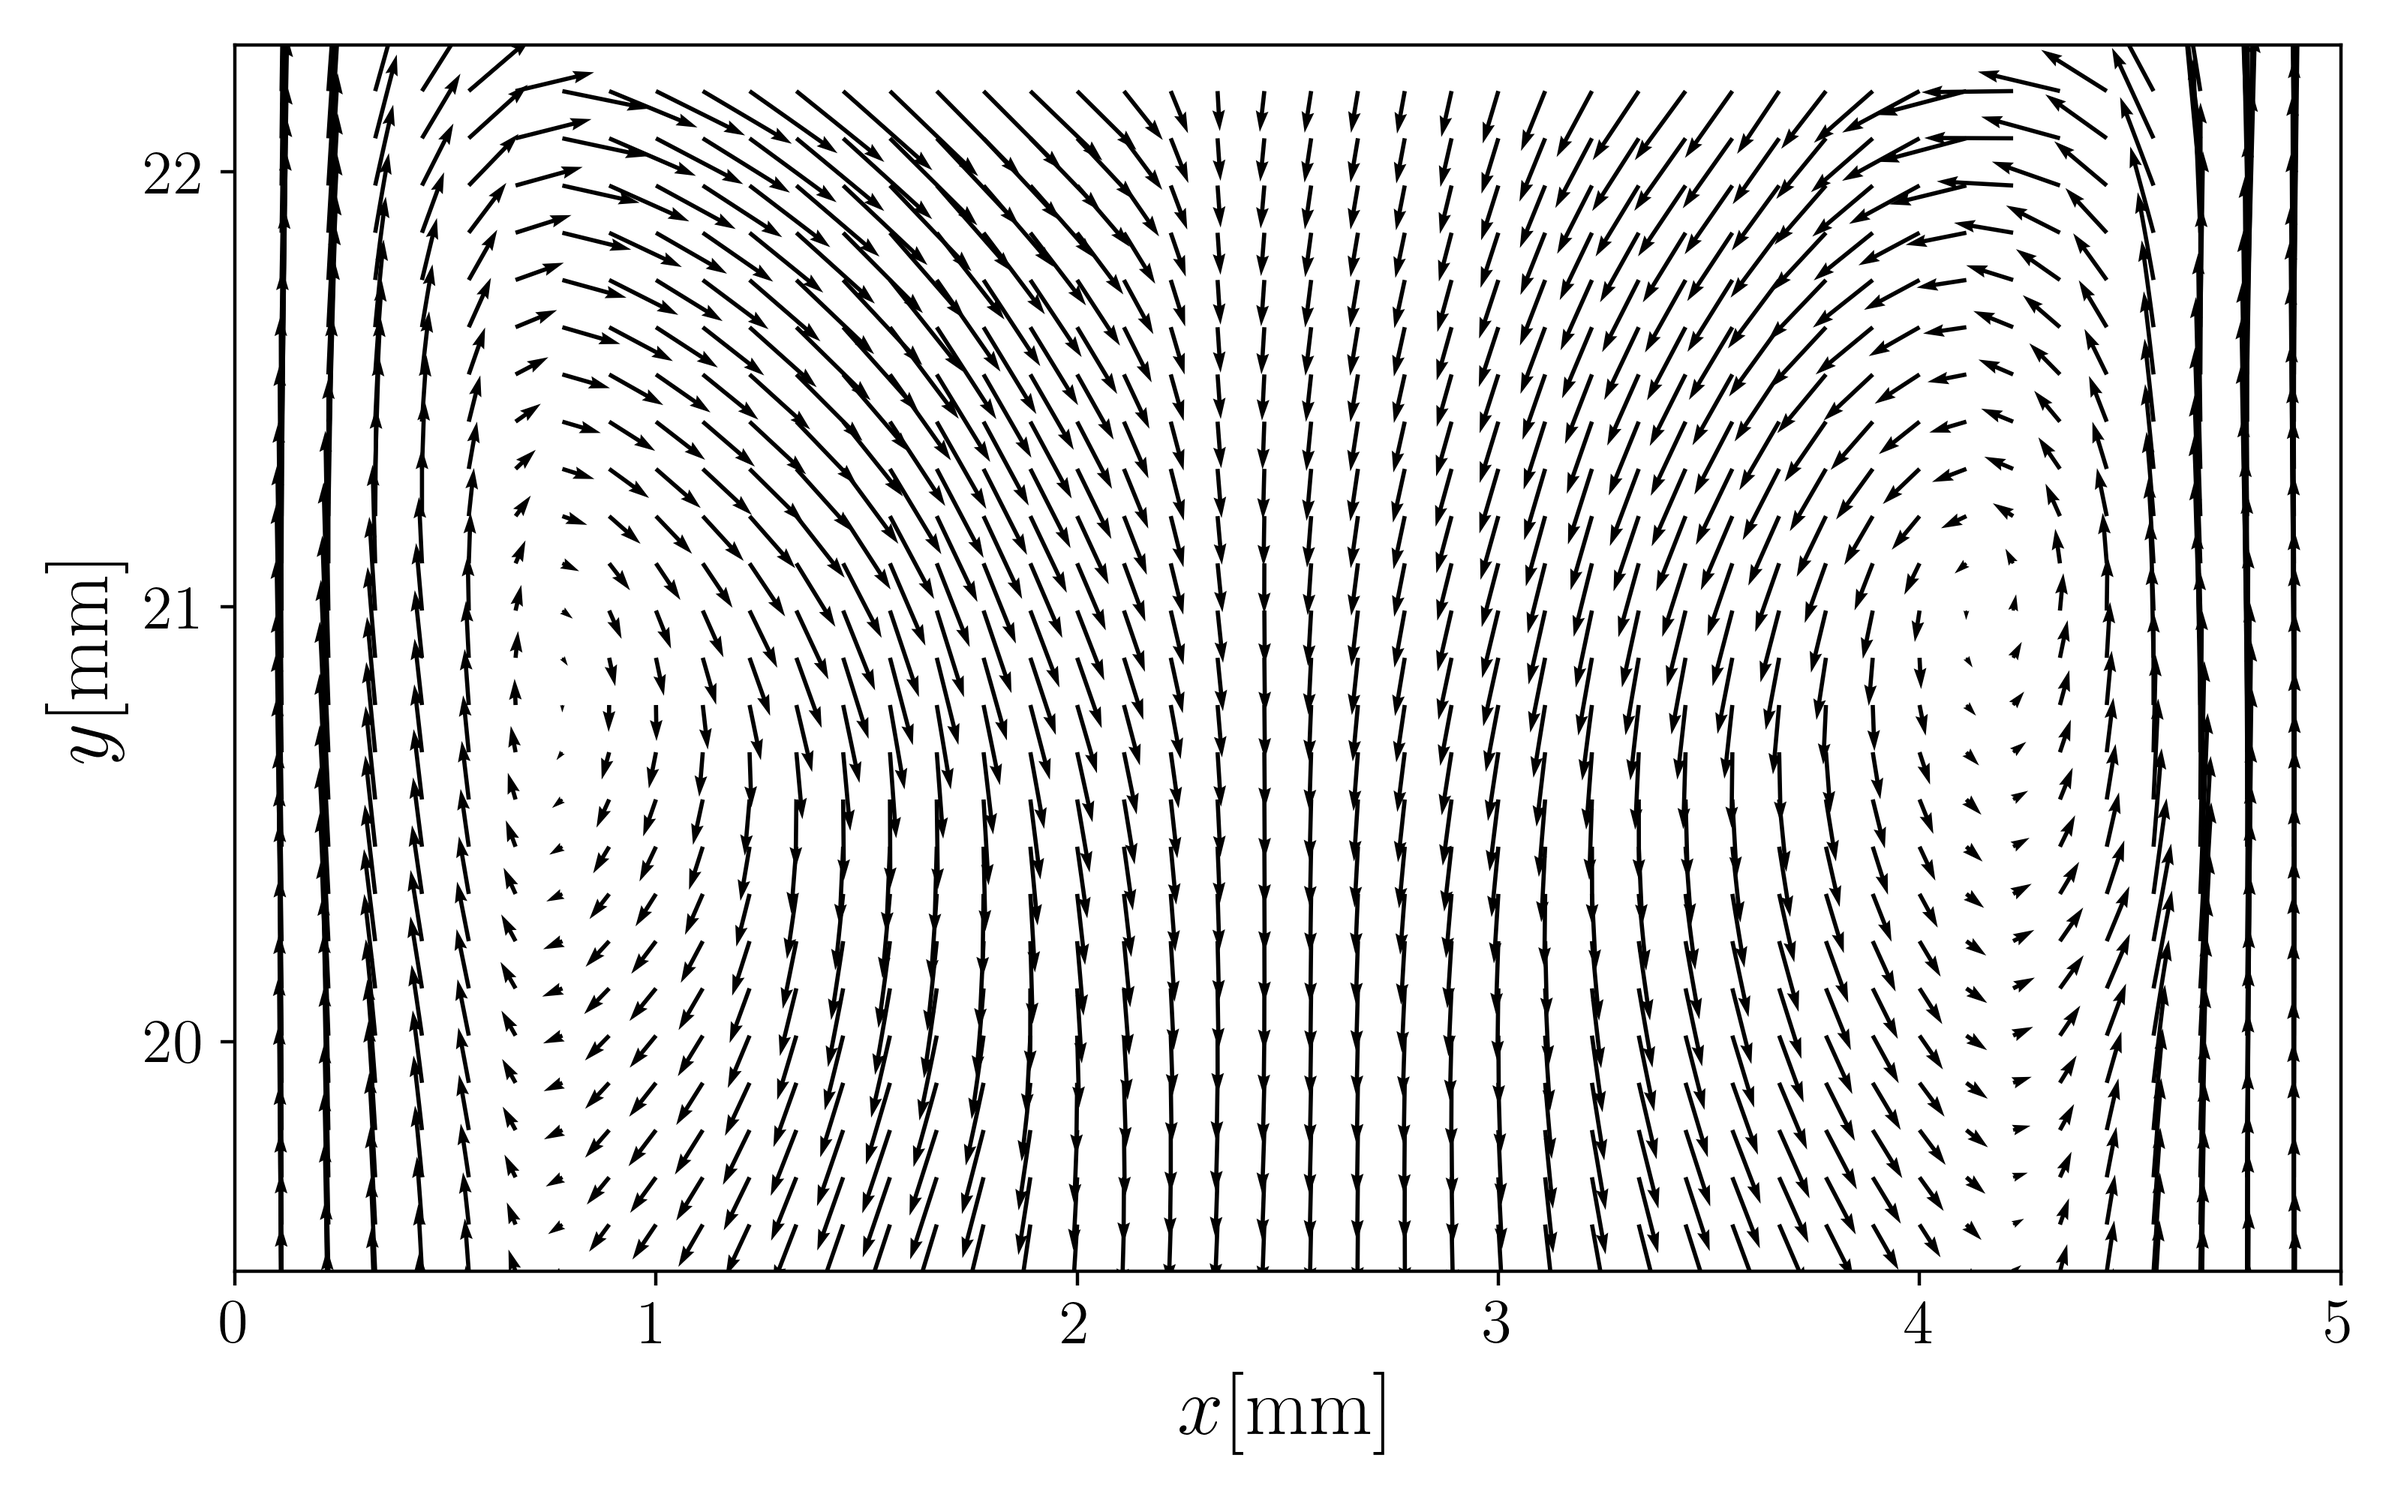
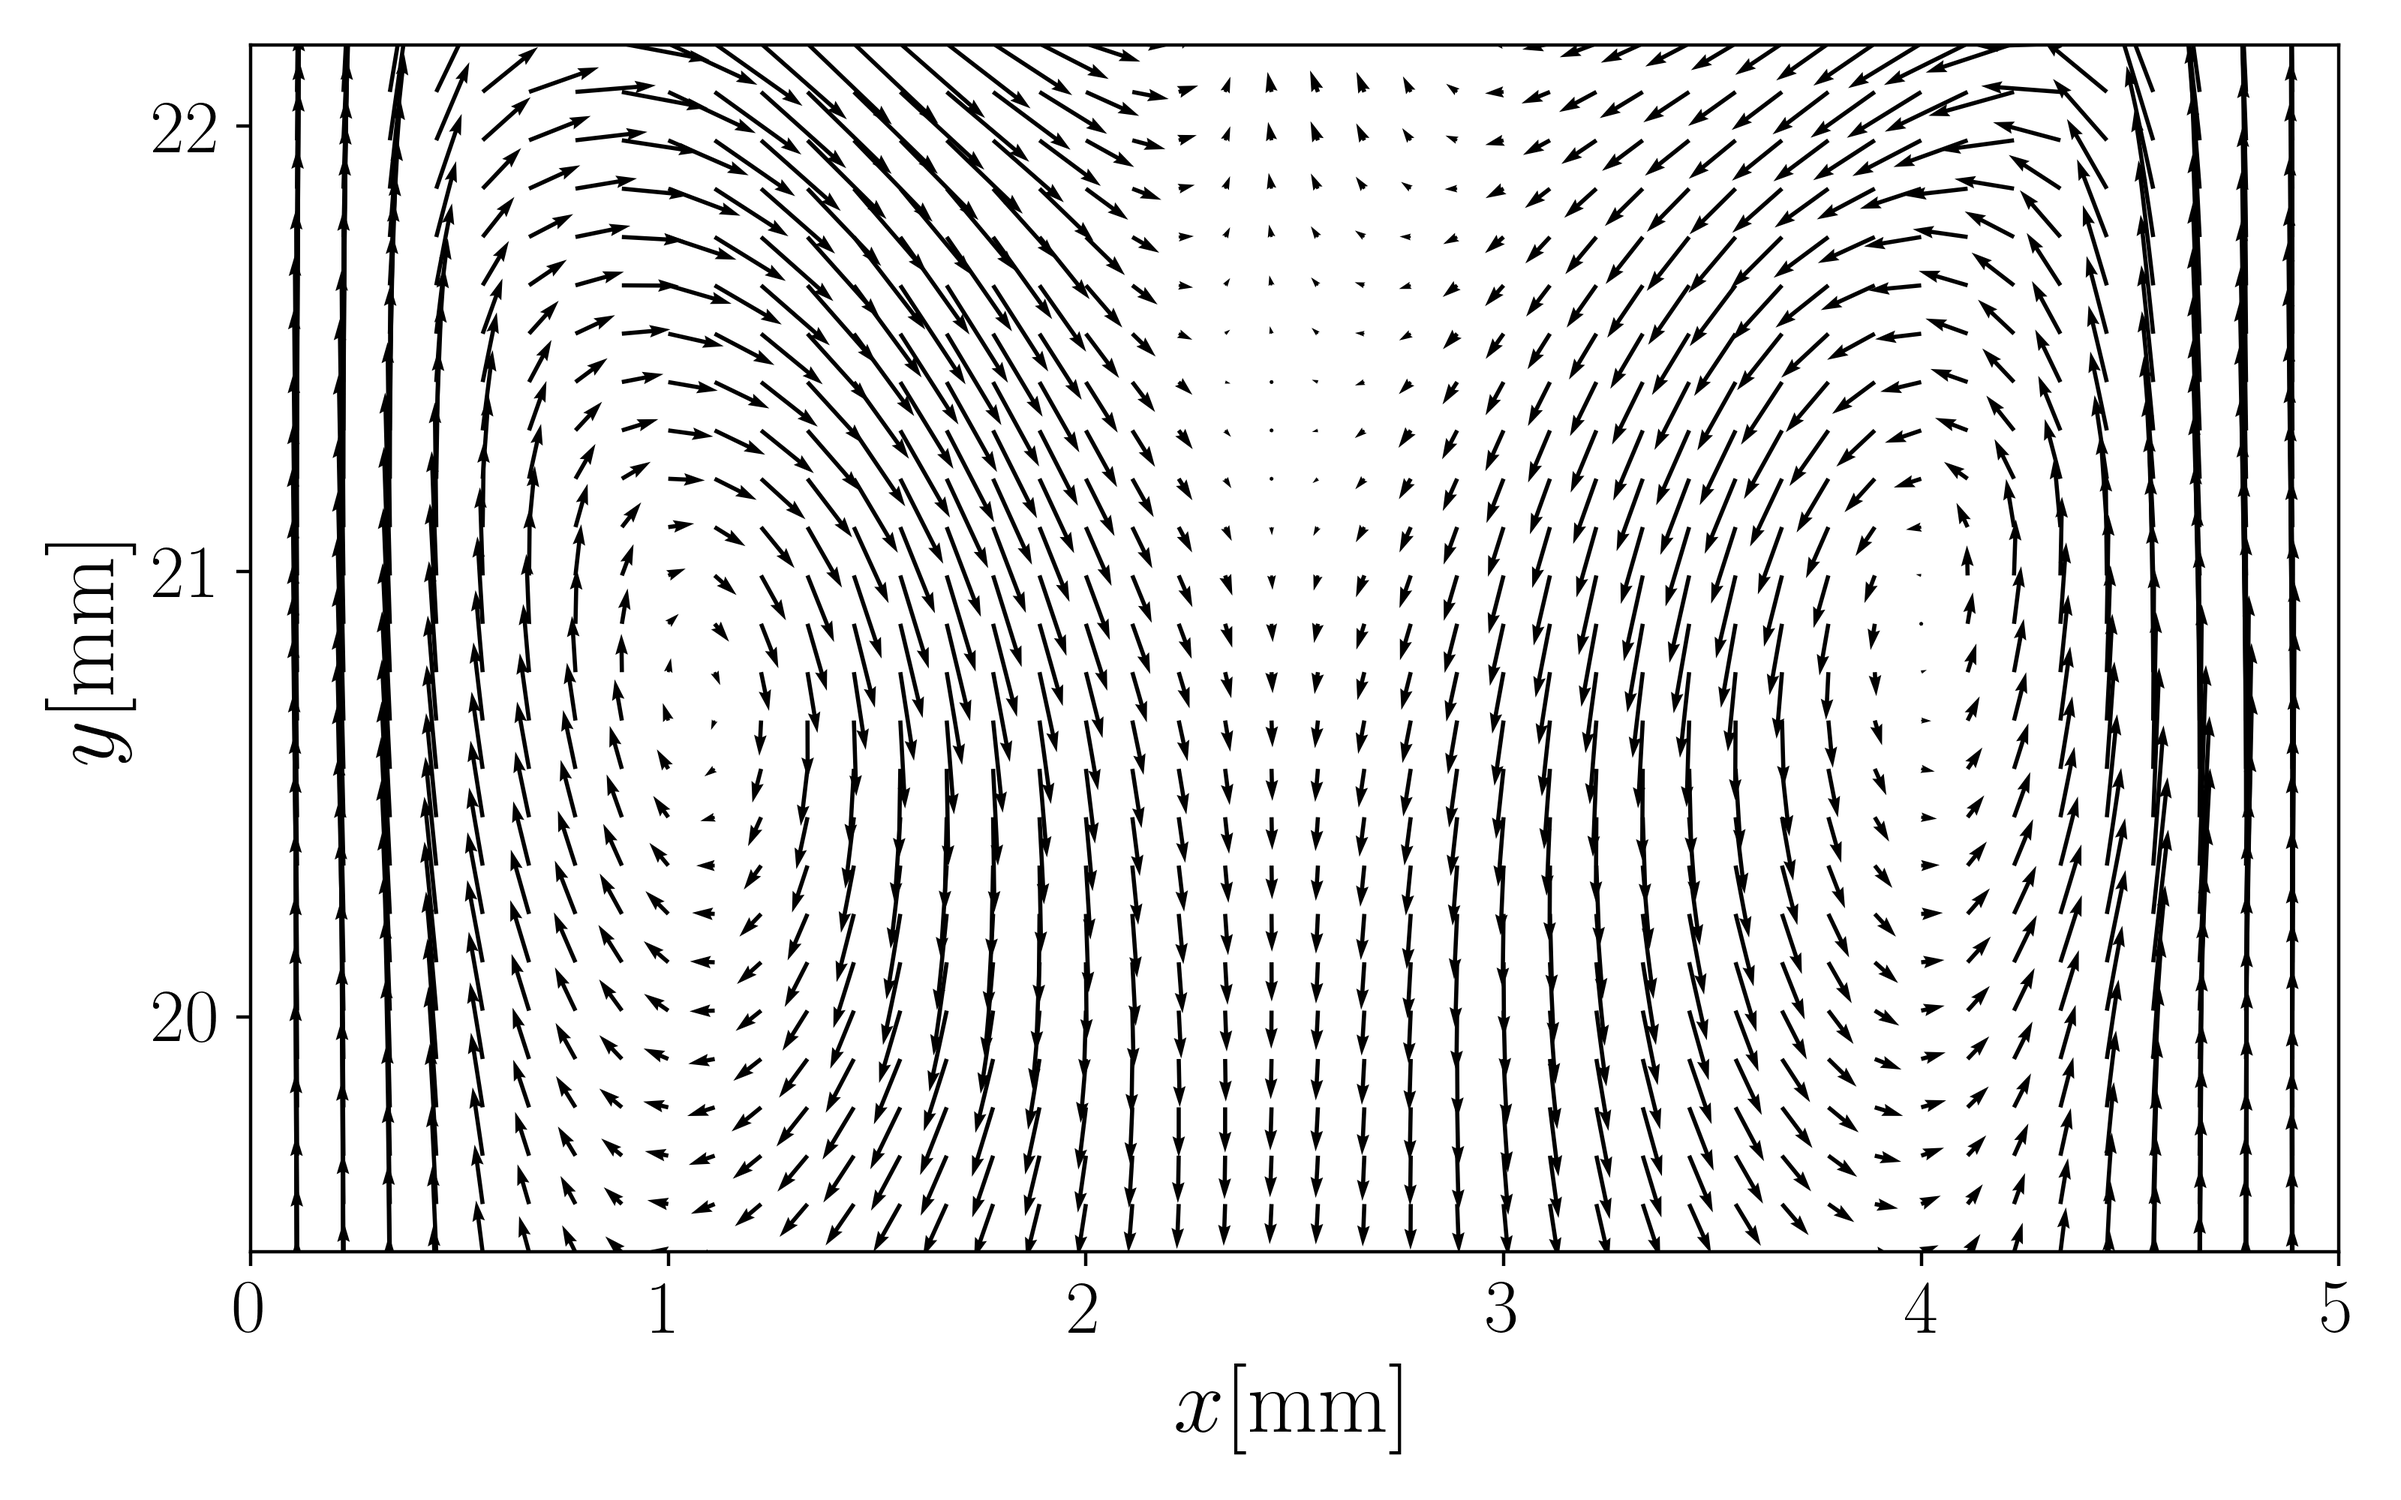
Updated figures, two separate mode removals for v and u

Changed region(s): [[0.0312, 0.031, 0.9688, 0.899], [0.5, 0.93, 0.5938, 0.961], [0.9688, 0.868, 1.0, 0.899]]

diff --git a/PIV_Paper_testing/sine_transform_REVISITED.py b/PIV_Paper_testing/sine_transform_REVISITED.py
@@ -59,14 +59,31 @@ for k in range(0,325):
 from functions_Miguel import POD, interp_Time, qfield, high_pass
 
 # number of POD modes
-R = 15
+R_u = 25
+R_v = 35
 # do the POD
-Phi_v, Sigma_v, Psi_v = POD(V_POD_load, R)
-Phi_u, Sigma_u, Psi_u = POD(U_POD_load, R)
+Phi_u, Sigma_u, Psi_u = POD(U_POD_load, R_u)
+Phi_v, Sigma_v, Psi_v = POD(V_POD_load, R_v)
+    
 
 # recalculate the velocity fields
 V_POD=np.linalg.multi_dot([Phi_v,np.diag(Sigma_v),np.transpose(Psi_v)]) 
 U_POD=np.linalg.multi_dot([Phi_u,np.diag(Sigma_u),np.transpose(Psi_u)])
+
+# U_pod_old = U_POD[:,time_step].reshape(104, 23)[top_idx:,1:-1]
+# V_pod_old = V_POD[:,time_step].reshape(104, 23)[top_idx:,1:-1]
+
+# upod = U_pod_old
+# vpod = V_pod_old
+
+# test_profile = vpod[10,:]
+# # extract the original velocity profile and grid
+
+# test_filt = interp_Time(test_profile, x_old, x_new, n_B = 15, sigma = 15, P=2, alpha = 0.1)
+# plt.figure()
+# plt.plot(X_grid_old[10,:], v_old[7,:]) 
+# plt.plot(X_grid_old[10,:], vpod[7,:], color = 'r') 
+# plt.plot(x_new, test_filt, color = 'k')
  
 # estimate the errors
 Error=np.linalg.norm(U_POD-U_POD_load)/np.linalg.norm(U_POD_load)
@@ -87,12 +104,13 @@ t_2=np.linspace(0,T,n_t1*n)
 # number of radial basis functions along the time axis
 n_B = 500
 # initialize the interpolated Psi-s
-Psi_v_interp = np.zeros((t_2.shape[0], R))
-Psi_u_interp = np.zeros((t_2.shape[0], R))
+Psi_u_interp = np.zeros((t_2.shape[0], R_u))
+Psi_v_interp = np.zeros((t_2.shape[0], R_v))
 # loop over all the POD modes
-for i in range(0, R):
-    Psi_v_interp[:,i]=interp_Time(Psi_v[:,i],t_1,t_2,n_B,0.01,2,alpha=0.1)
+for i in range(0, R_u):
     Psi_u_interp[:,i]=interp_Time(Psi_u[:,i],t_1,t_2,n_B,0.01,2,alpha=0.1)
+for i in range(0, R_v):
+    Psi_v_interp[:,i]=interp_Time(Psi_v[:,i],t_1,t_2,n_B,0.01,2,alpha=0.1)
 
 """ Here we do the interpolation and smoothing in space. For now this is not 
     being outsourced to the functions file, but will be soon """
@@ -101,23 +119,12 @@ for i in range(0, R):
 x_new = np.linspace(x_old.min(), x_old.max(), x_old.shape[0]*2)
 y_new = np.linspace(y_old.min(), y_old.max(), y_old.shape[0]*2)
 
-# number of radial basis functions along the x and y axis respectively
-# WARNING: High values lead to a huge increase of the computational cost
-n_Bx = 60
-n_By = 60
-# initialize the interpolated Phi-s
-Phi_v_interp = np.zeros((y_new.shape[0]*x_new.shape[0], R))
-Phi_u_interp = np.zeros((y_new.shape[0]*x_new.shape[0], R))
-
-# sigmas for the width of the gaussians in each axis
-sigma_x = 10
-sigma_y = 10
-
 # get the number of grid points on the old and new grid
 n_x_new = x_new.shape[0]
 n_y_new = y_new.shape[0]
 n_x_old = x_old.shape[0]
 n_y_old = y_old.shape[0]
+
 
 # define the two grids
 X_old, Y_old = np.meshgrid(x_old, y_old)
@@ -128,6 +135,18 @@ X_old = X_old.reshape(n_x_old*n_y_old)
 Y_old = Y_old.reshape(n_x_old*n_y_old)
 X_new = X_new.reshape(n_x_new*n_y_new)
 Y_new = Y_new.reshape(n_x_new*n_y_new)
+
+# number of radial basis functions along the x and y axis respectively
+# WARNING: High values lead to a huge increase of the computational cost
+n_Bx = 15
+n_By = 60
+# initialize the interpolated Phi-s
+Phi_v_interp = np.zeros((y_new.shape[0]*x_new.shape[0], R_v))
+Phi_u_interp = np.zeros((y_new.shape[0]*x_new.shape[0], R_u))
+
+# sigmas for the width of the gaussians in each axis
+sigma_x = 15
+sigma_y = 10
 
 # initialize the old and new Phi's for the vertical and horizontal component
 Phi_v_T_o = np.zeros((n_x_old*n_y_old, n_Bx*n_By))
@@ -157,20 +176,9 @@ for j in range(0, n_Bx*n_By):
                             (Y_c[j]-Y_new)**2/(2*sigma_y**2)))
     
 # loop over every POD mode
-for j in range(0, R):
+for j in range(0, R_u):
     # update the user
     print(j+1) 
-    # v component
-    phi_old = Phi_v[:,j]
-    # subtract the mean
-    phi_mean = phi_old.mean()
-    phi_s = phi_old - phi_mean
-    # min J(w)= ||psi_old-Psi_T_o*w_psi||_2+alpha*||w_psi||_2
-    # solve this equation directly (for large n_By and n_Bx this is costly)
-    w_phi = np.linalg.inv(Phi_v_T_o.T.dot(Phi_v_T_o)+
-      alpha*np.eye(n_Bx*n_By)).dot(Phi_v_T_o.T).dot(phi_s)  
-    Phi_v_interp[:,j] = Phi_v_T_n.dot(w_phi) + phi_mean  
-    
     # u component
     phi_old = Phi_u[:,j]
     # subtract the mean
@@ -182,6 +190,25 @@ for j in range(0, R):
       alpha*np.eye(n_Bx*n_By)).dot(Phi_u_T_o.T).dot(phi_s)  
     Phi_u_interp[:,j] = Phi_u_T_n.dot(w_phi) + phi_mean  
 
+for j in range(0, R_v):
+    # update the user
+    print(j+1) 
+    # v component
+    phi_old = Phi_v[:,j]
+    # subtract the mean
+    phi_mean = phi_old.mean()
+    phi_s = phi_old - phi_mean
+    # min J(w)= ||psi_old-Psi_T_o*w_psi||_2+alpha*||w_psi||_2
+    # solve this equation directly (for large n_By and n_Bx this is costly)
+    w_phi = np.linalg.inv(Phi_v_T_o.T.dot(Phi_v_T_o)+
+      alpha*np.eye(n_Bx*n_By)).dot(Phi_v_T_o.T).dot(phi_s)  
+    Phi_v_interp[:,j] = Phi_v_T_n.dot(w_phi) + phi_mean 
+
+idx = 1
+plt.plot(Psi_u[:,idx], label = 'original')
+plt.plot(Psi_u_interp[:,idx], label = 'smooth')
+plt.legend()
+
 # calculate the newly smoothed and interpolated velocity field
 New_v = np.linalg.multi_dot([Phi_v_interp,np.diag(Sigma_v),np.transpose(Psi_v_interp)])
 New_u = np.linalg.multi_dot([Phi_u_interp,np.diag(Sigma_u),np.transpose(Psi_u_interp)])
@@ -190,16 +217,16 @@ New_u = np.linalg.multi_dot([Phi_u_interp,np.diag(Sigma_u),np.transpose(Psi_u_in
 reshaped_v = New_v.reshape((n_y_new, n_x_new, n_t1))
 reshaped_u = New_u.reshape((n_y_new, n_x_new, n_t1))
 
+#%%
+
 """ Here we create the figures for the abstract. We always crop the 0 padding
     at the edges because it messes up the high pass filtering. We create the
     old q field and 2 quiver plots, on on the old grid and one on the new one """
-    
+
 # top index of the array to cut, for time step 201 this is 3
 top_idx = 3
 time_step = 201
-# extract the original velocity profile and grid
-v_old = profile_v[time_step,top_idx:,1:-1]
-u_old = profile_u[time_step,top_idx:,1:-1]
+
 X_grid_old = X_old.reshape(n_y_old, n_x_old)[top_idx:,1:-1]
 Y_grid_old = Y_old.reshape(n_y_old, n_x_old)[top_idx:,1:-1]
 
@@ -208,8 +235,10 @@ X_grid_new = X_new.reshape(n_y_new, n_x_new)
 Y_grid_new = Y_new.reshape(n_y_new, n_x_new)[::-1]
 X_grid_new = X_grid_new[2*top_idx:,1:-1]
 Y_grid_new = Y_grid_new[2*top_idx:,1:-1]
+
 v_new = reshaped_v[::-1,:,:]
 u_new = reshaped_u[::-1,:,:]
+
 v_new = v_new[2*top_idx:,1:-1,time_step]
 u_new = u_new[2*top_idx:,1:-1,time_step]
 
@@ -221,11 +250,15 @@ plt.rc('axes', labelsize=22)     # fontsize of the x and y labels
 plt.rc('xtick', labelsize=18)    # fontsize of the tick labels
 plt.rc('ytick', labelsize=18)    # fontsize of the tick labels
 
-#%%
+v_old = profile_v[time_step,top_idx:,1:-1]
+u_old = profile_u[time_step,top_idx:,1:-1]
+
 # take the high pass filtered original velocity (for now we use mean subtraction)
-u_old_hp, v_old_hp = high_pass(u_old, v_old, sigma_y = 10, sigma_x = 15, truncate = 2, padded=False)
-u_old_hp = u_old-u_old.mean()
-v_old_hp = v_old-v_old.mean()
+# u_old_hp, v_old_hp = high_pass(u_old, v_old, sigma_y = 10, sigma_x = 15, truncate = 2, padded=False)
+subt_u = u_old.mean()
+subt_v = v_old.mean()
+u_old_hp = u_old-subt_u
+v_old_hp = v_old-subt_v
 
 # create the figure
 fig, ax = plt.subplots(figsize = (8,5))
@@ -243,14 +276,14 @@ fig.tight_layout()
 fig.savefig('original.png', dpi = 400)
 
 # take the high pass filtered interpolated velocity (for now we use mean subtraction)
-u_new_hp, v_new_hp = high_pass(u_new, v_new, sigma_y = 10, sigma_x = 15, truncate = 2, padded=False)
-u_new_hp = u_new-u_new.mean()
-v_new_hp = v_new-v_new.mean()
+# u_new_hp, v_new_hp = high_pass(u_new, v_new, sigma_y = 10, sigma_x = 15, truncate = 2, padded=False)
+
+u_new_hp = u_new-subt_u
+v_new_hp = v_new-subt_v
 
 # create the figure
 Stp=1
 fig, ax = plt.subplots(figsize = (8,5))
-# ax.quiver(X_old, Y_old, , )
 ax.quiver(X_grid_new[::Stp,::Stp], Y_grid_new[::Stp,::Stp], u_new_hp[::Stp,::Stp],\
           v_new_hp[::Stp,::Stp], scale = 550, color = 'k', scale_units = 'height',\
         units = 'width', width = 0.002)
@@ -265,13 +298,20 @@ ax.set_ylim(1075, 1224)
 fig.tight_layout()
 fig.savefig('interpolated.png', dpi = 400)
 
+
+
 # calculate the qfield
 q_field = qfield(X_grid_old, Y_grid_old, u_old, v_old)
 # create the figure
+Stp_x = 1
+Stp_y = 2
 fig, ax = plt.subplots(figsize = (4.5, 10))
 cont = ax.contourf(X_grid_old, Y_grid_old, q_field)            
 clb = fig.colorbar(mappable = cont, fraction=0.185, pad=0.1, drawedges = True, alpha = 1) # get the colorbar
 clb.set_label('Q Field [1/s$^2$]') # set the colorbar label
+ax.quiver(X_grid_old[::Stp_y,::Stp_x], Y_grid_old[::Stp_y,::Stp_x], u_old[::Stp_y,::Stp_x],\
+          v_old[::Stp_y,::Stp_x], scale = 12000, color = 'k',\
+          scale_units = 'height', units = 'width', width = 0.002)
 ax.set_xlabel('$x$[mm]')
 ax.set_xticks(np.linspace(12, 252, 6))
 ax.set_xticklabels(np.linspace(0, 5, 6, dtype = int))
